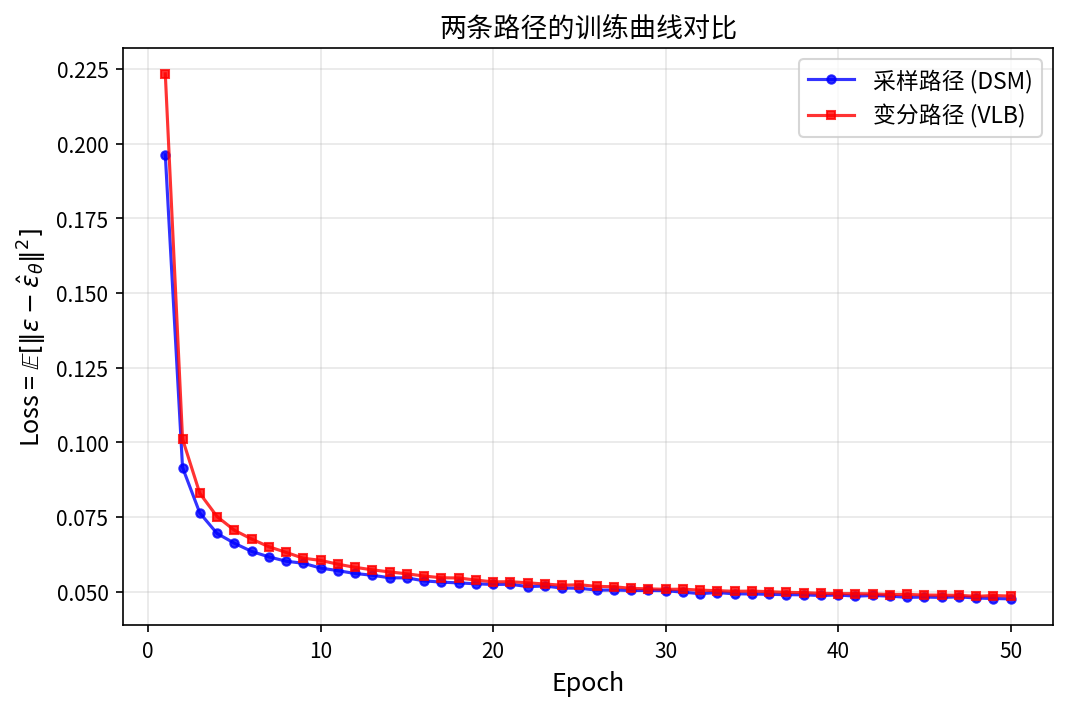
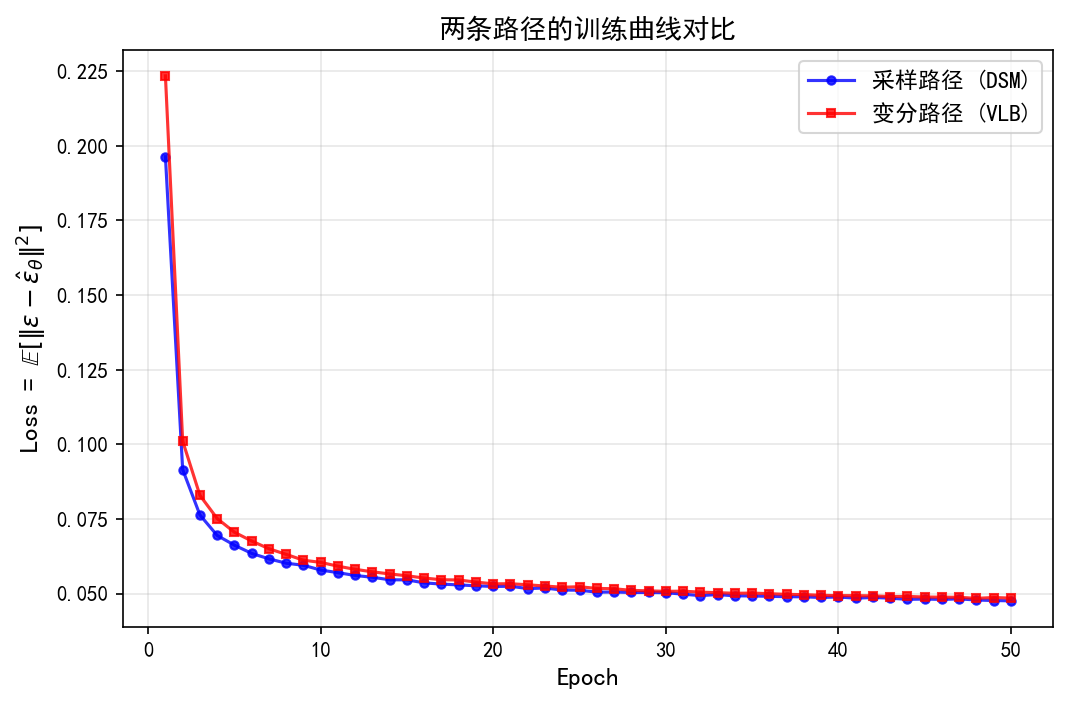
1

diff --git a/第12章 Score ≡ ELBO：殊途同归/第十二章 配套实验/实验12.6-1/12.6-1.py b/第12章 Score ≡ ELBO：殊途同归/第十二章 配套实验/实验12.6-1/12.6-1.py
@@ -450,20 +450,19 @@ samples_b_img = (samples_b + 1) / 2
 samples_b_img = samples_b_img.clamp(0, 1)
 
 fig, axes = plt.subplots(2, n_samples, figsize=(16, 4))
+fig.subplots_adjust(left=0.10, right=0.98, top=0.85, bottom=0.05)
 for i in range(n_samples):
     axes[0, i].imshow(samples_a_img[i, 0].cpu().numpy(), cmap='gray')
     axes[0, i].axis('off')
-    if i == 0:
-        axes[0, i].set_ylabel('采样路径\n(DSM→Score→SDE)', fontsize=10, rotation=0, labelpad=70)
     axes[1, i].imshow(samples_b_img[i, 0].cpu().numpy(), cmap='gray')
     axes[1, i].axis('off')
-    if i == 0:
-        axes[1, i].set_ylabel('变分路径\n(VLB→μ_θ→DDPM)', fontsize=10, rotation=0, labelpad=70)
 
-plt.suptitle('两条路径的采样结果对比', fontsize=14, y=1.02)
-plt.tight_layout()
+fig.text(0.02, 0.70, '采样路径\n(DSM→Score→SDE)', fontsize=10, ha='left', va='center', rotation=0)
+fig.text(0.02, 0.30, '变分路径\n(VLB→μ_θ→DDPM)', fontsize=10, ha='left', va='center', rotation=0)
+
 fig_path2 = os.path.join(SAVE_DIR, '步骤2_采样结果对比.png')
-plt.savefig(fig_path2, dpi=150, bbox_inches='tight')
+fig.suptitle('两条路径的采样结果对比', fontsize=14, y=0.98)
+plt.savefig(fig_path2, dpi=150)
 plt.close()
 print(f"图表已保存: 步骤2_采样结果对比.png")
 
